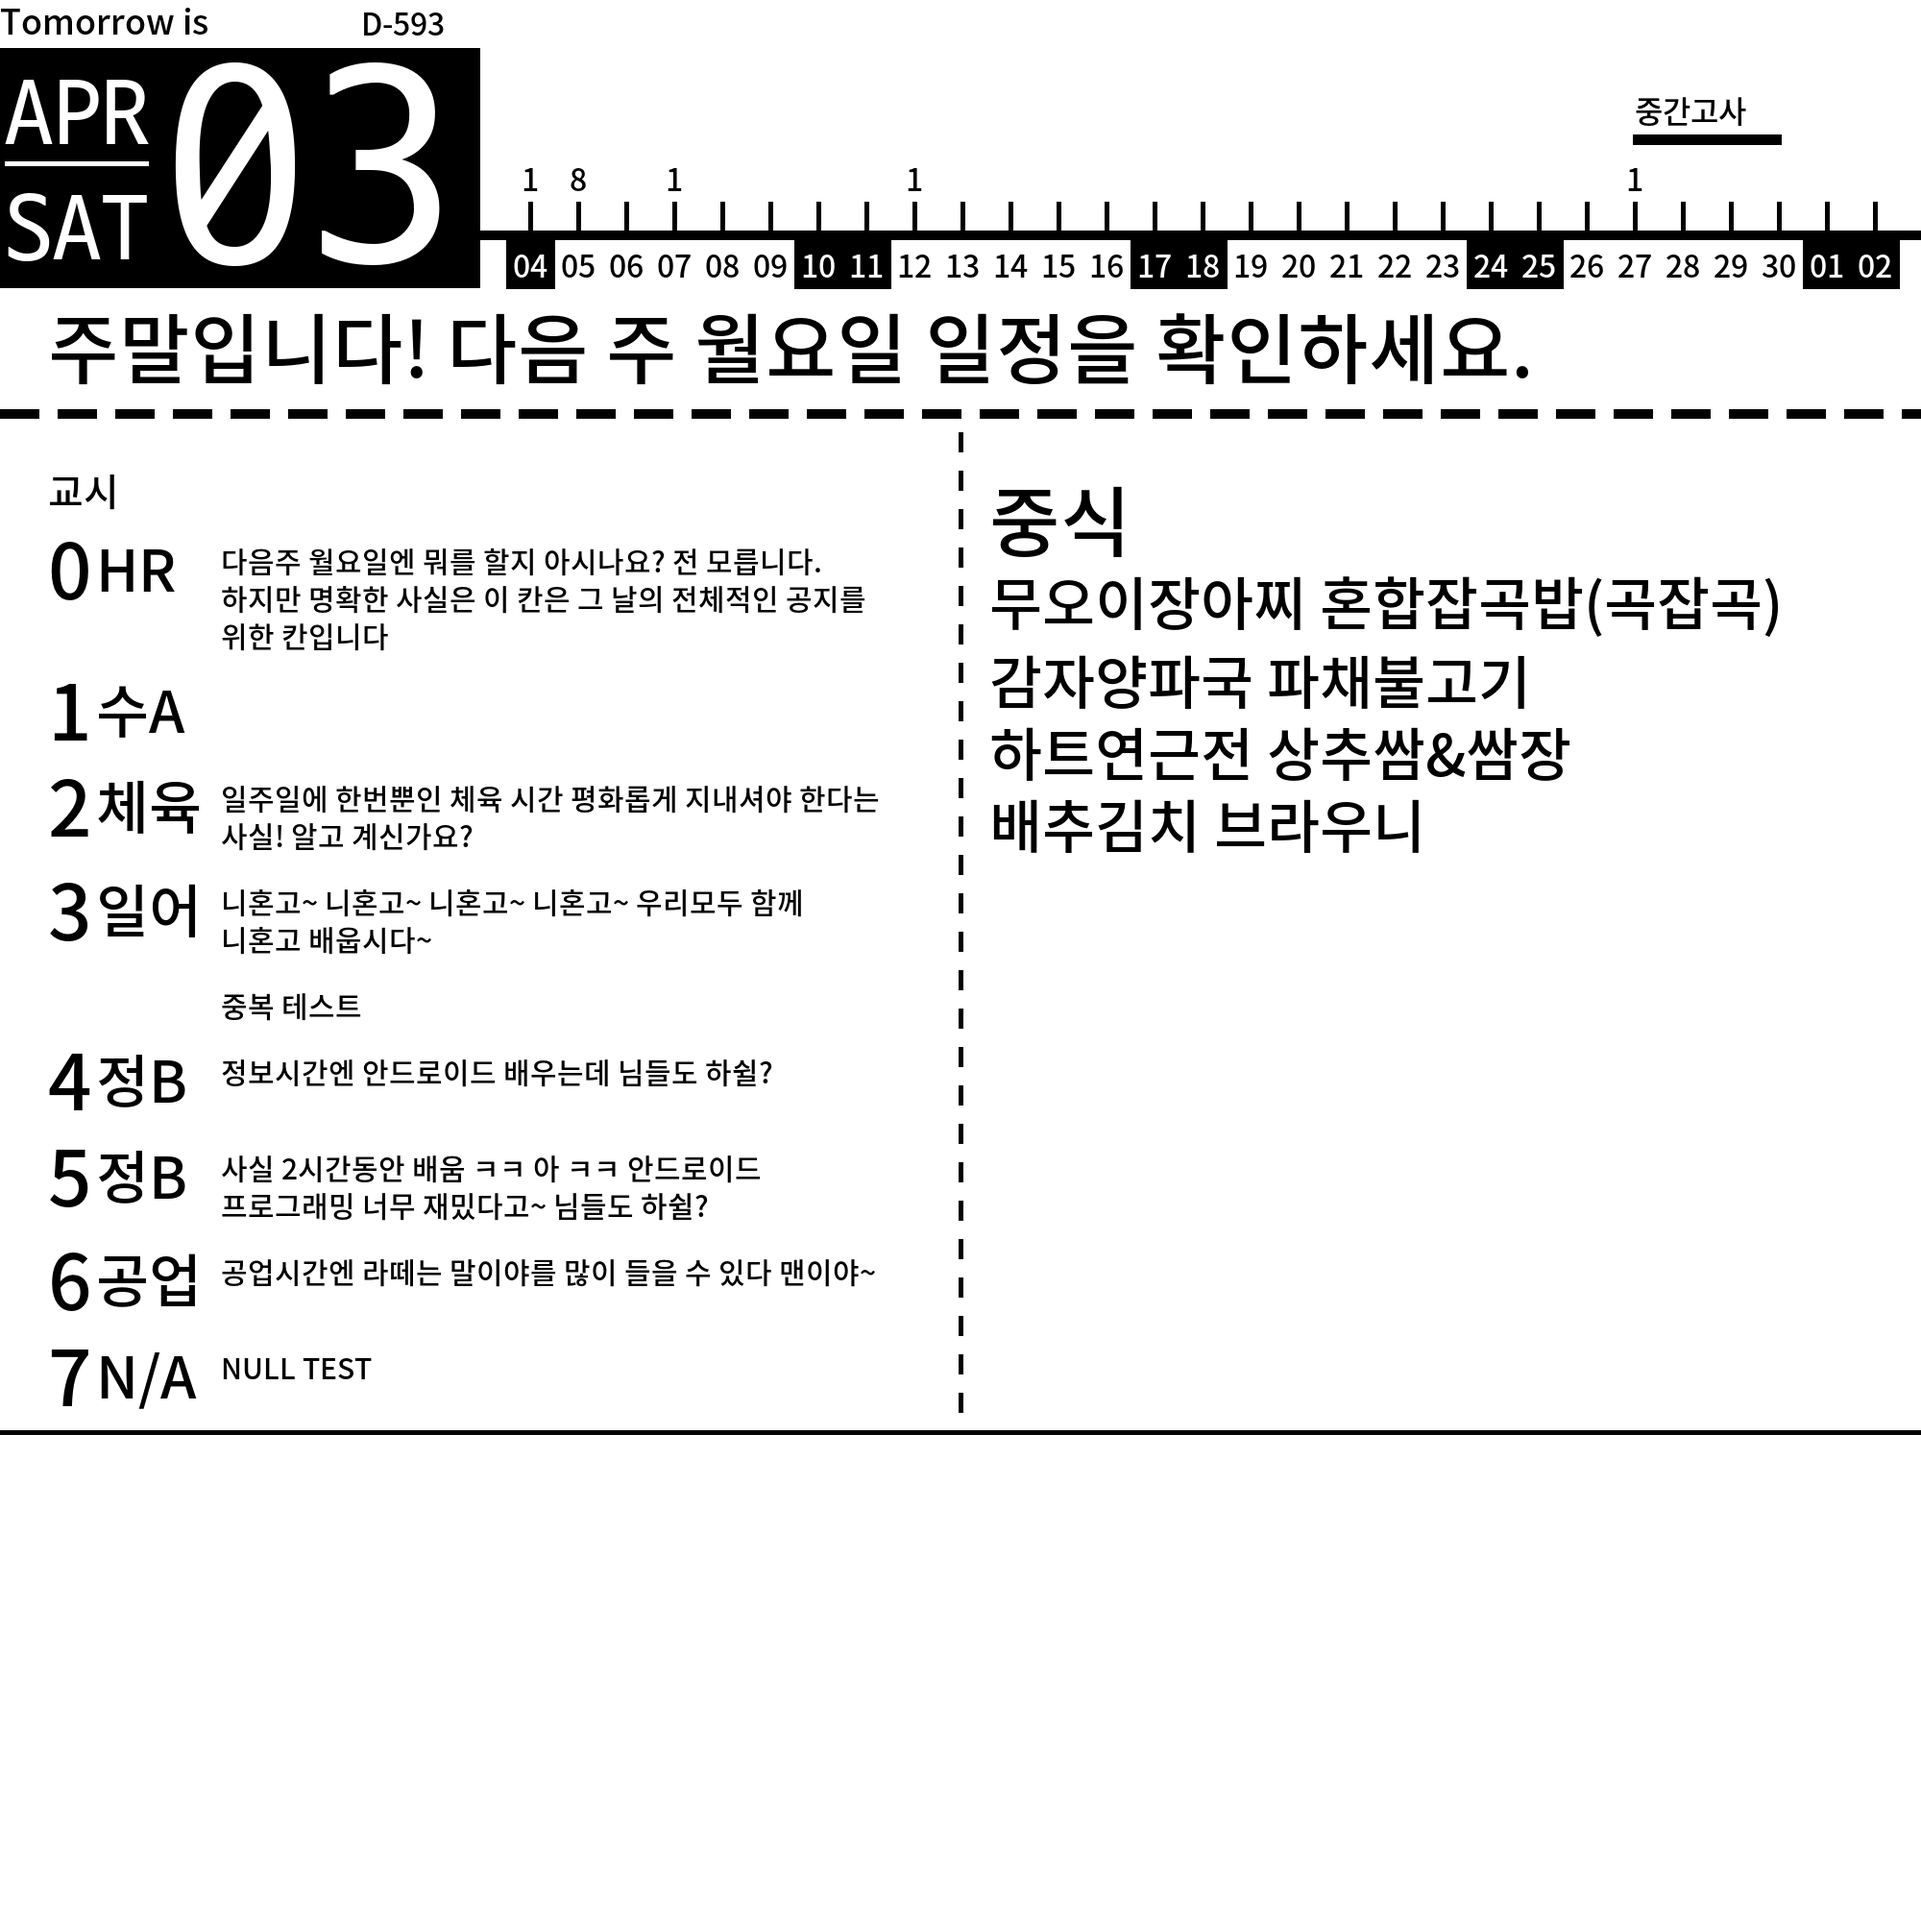
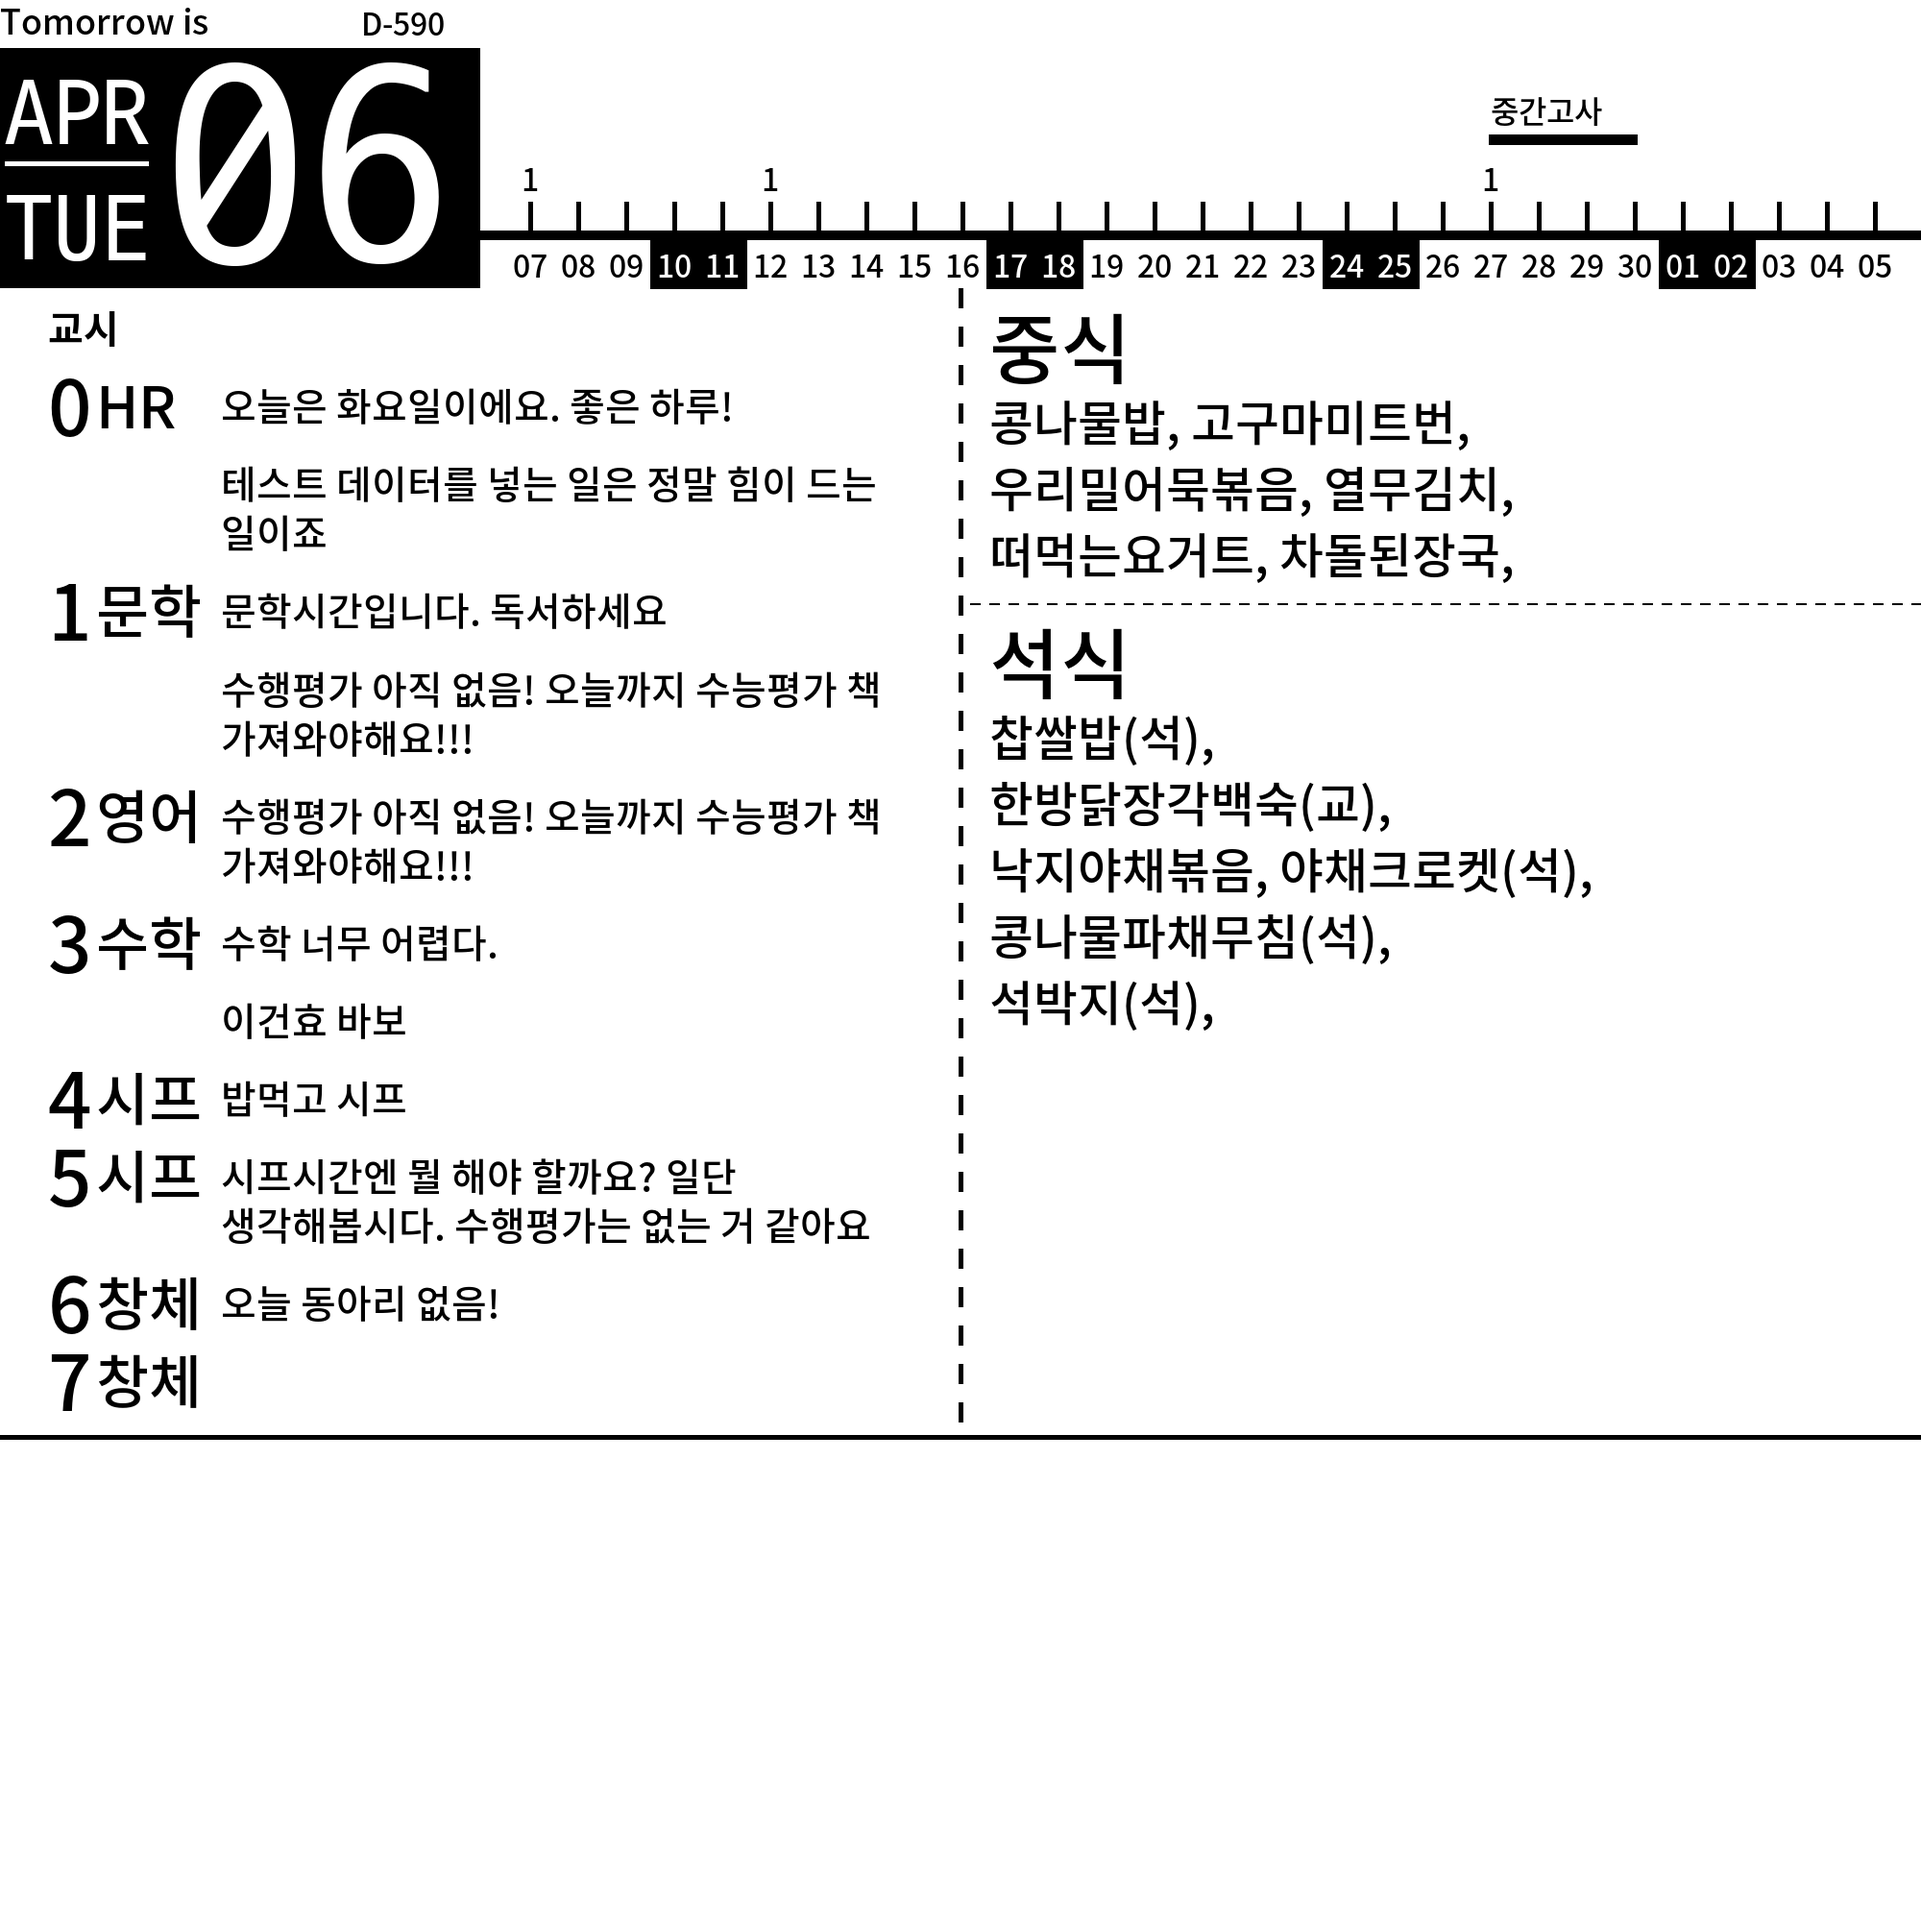
finished upper part

Changed region(s): [[0.0, 0.031, 1.0, 0.775], [0.775, 0.031, 0.93, 0.093], [0.992, 0.186, 1.0, 0.217]]

diff --git a/main.py b/main.py
@@ -258,8 +258,8 @@ def settomorrowdata():
     globalx = 50
     globaly = 300
     tomorrowstr = str(tomorrow.strftime("%Y-%m-%d"))
-    kyoshifont = getfont(___noto_sans, 40)
-    textfont = getfont(___noto_sans, 30)
+    kyoshifont = getfont(___noto_sans_bold, 40)
+    textfont = getfont(___noto_sans, 40)
     periodfont = getfont(___noto_sans, 80)
     periodnamefont = getfont(___noto_sans, 60)
     kyoshi = '교시'
@@ -272,9 +272,9 @@ def settomorrowdata():
         linedashed(0, globaly, 2000, globaly, 40, 1.5, 10)
         globaly += 50
         tomorrowstr = str(temptomorrow.strftime("%Y-%m-%d"))
-    tempy = globaly - 30
+    tempy = globaly
     gupsiky = printfooddata(globaly)
-    globaly = printmultiplelines(kyoshi, 40, 50, globaly, kyoshifont, (0, 0, 0))
+    globaly = printmultiplelines(kyoshi, 40, 50, globaly + 10, kyoshifont, (0, 0, 0))
     
     perioddata = [[] for i in range(10)]
     if(tomorrowstr in stddic):
@@ -290,36 +290,44 @@ def settomorrowdata():
         printmultiplelines(cursub, 40, 100, globaly + 15, periodnamefont, (0, 0, 0))
         beforey = globaly
         for dat in perioddata[curperiod]:
-            globaly = printmultiplelines(dat, 30, 230, globaly + 30, textfont, (0, 0, 0))
+            globaly = printmultiplelines(dat, 25, 230, globaly + 30, textfont, (0, 0, 0))
             #print(globaly)
         if(globaly - beforey <= 70):
             globaly = beforey + 100
     globaly += 20
 
     globaly = max(globaly, gupsiky)
-
     linedashed(1000, tempy, 1000, globaly, 20, 2, 5)
     linedashed(0, globaly, 2000, globaly, 40, 1, 5)
 
-        
+def splitfooddata(originlist):
+    outputlist = []
+    for i in range(0, int(len(originlist) / 2 + 1)):
+        if i * 2 + 1 >= int(len(originlist)) :
+            outputlist.append(str(originlist[i * 2]))
+            continue
+        outputlist.append(str(originlist[i * 2] + ", " + originlist[i * 2 + 1] + ","))
+    
+    return outputlist
 def printfooddata(cury):
-    gupsikfont = getfont(___noto_sans, 60)
+    gupsikfont = getfont(___noto_sans, 50)
     biggupsikfont = getfont(___noto_sans, 80)
     textfont = getfont(___noto_sans, 30)
     cury = printmultiplelines('중식', 40, 1030, cury, biggupsikfont, (0, 0, 0))
-    jungsiklist = []
-    for i in range(0, int(len(jungsik) / 2 + 1)):
-        if i * 2 + 1 >= int(len(jungsik)) :
-            jungsiklist.append(str(jungsik[i * 2]))
-            continue
-        jungsiklist.append(str(jungsik[i * 2] + " " + jungsik[i * 2 + 1]))
-
+    jungsiklist = splitfooddata(jungsik)
     print(jungsiklist)
     for line in jungsiklist:
         w, h = gupsikfont.getsize(line)
         cury = printmultiplelines(line, 17, 1030, cury, gupsikfont, (0, 0, 0))
-
-
+    cury += 20
+    linedashed(1010, cury, 19900, cury, 10, 2, 2)
+    cury = printmultiplelines('석식', 40, 1030, cury, biggupsikfont, (0, 0, 0))
+    sucksiklist = splitfooddata(sucksik)
+    print(sucksiklist)
+    for line in sucksiklist:
+        w, h = gupsikfont.getsize(line)
+        cury = printmultiplelines(line, 17, 1030, cury, gupsikfont, (0, 0, 0))
+    cury += 20
     return cury
         
     
